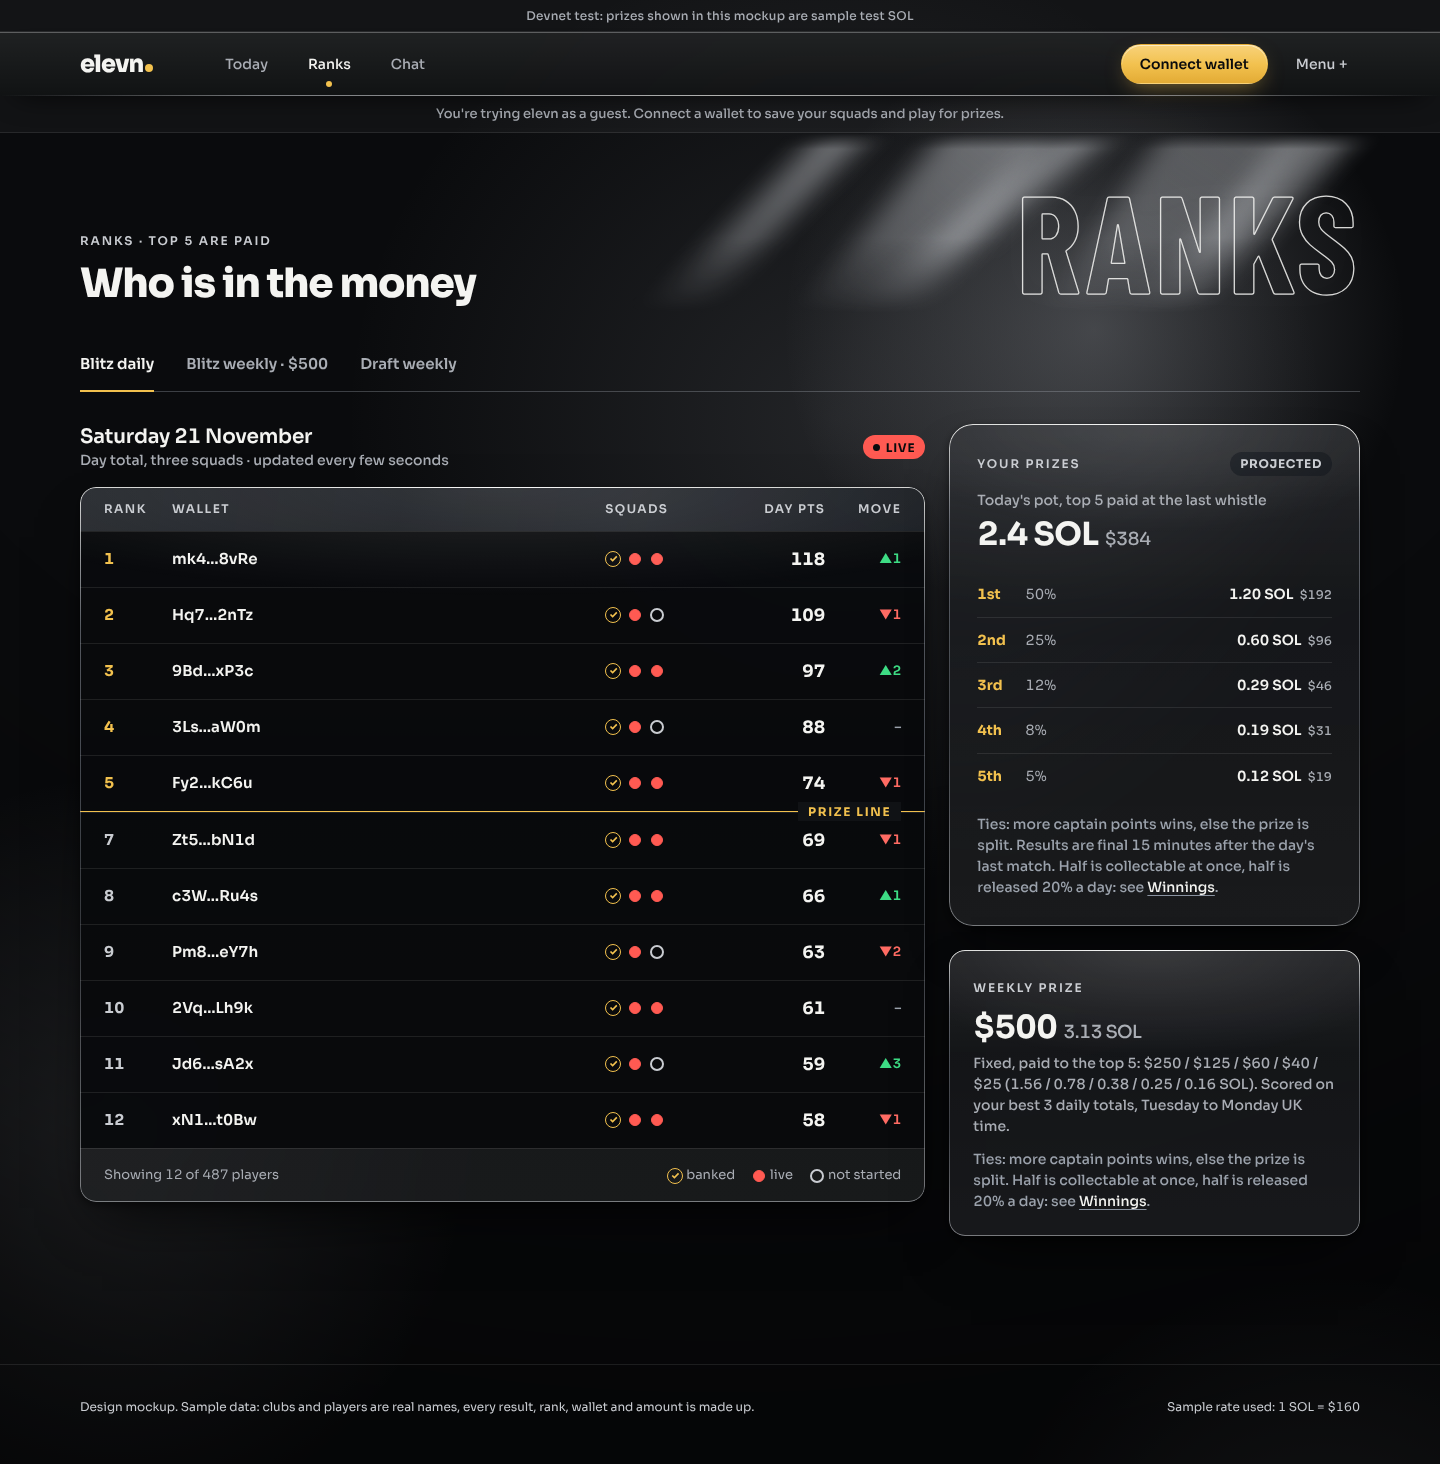
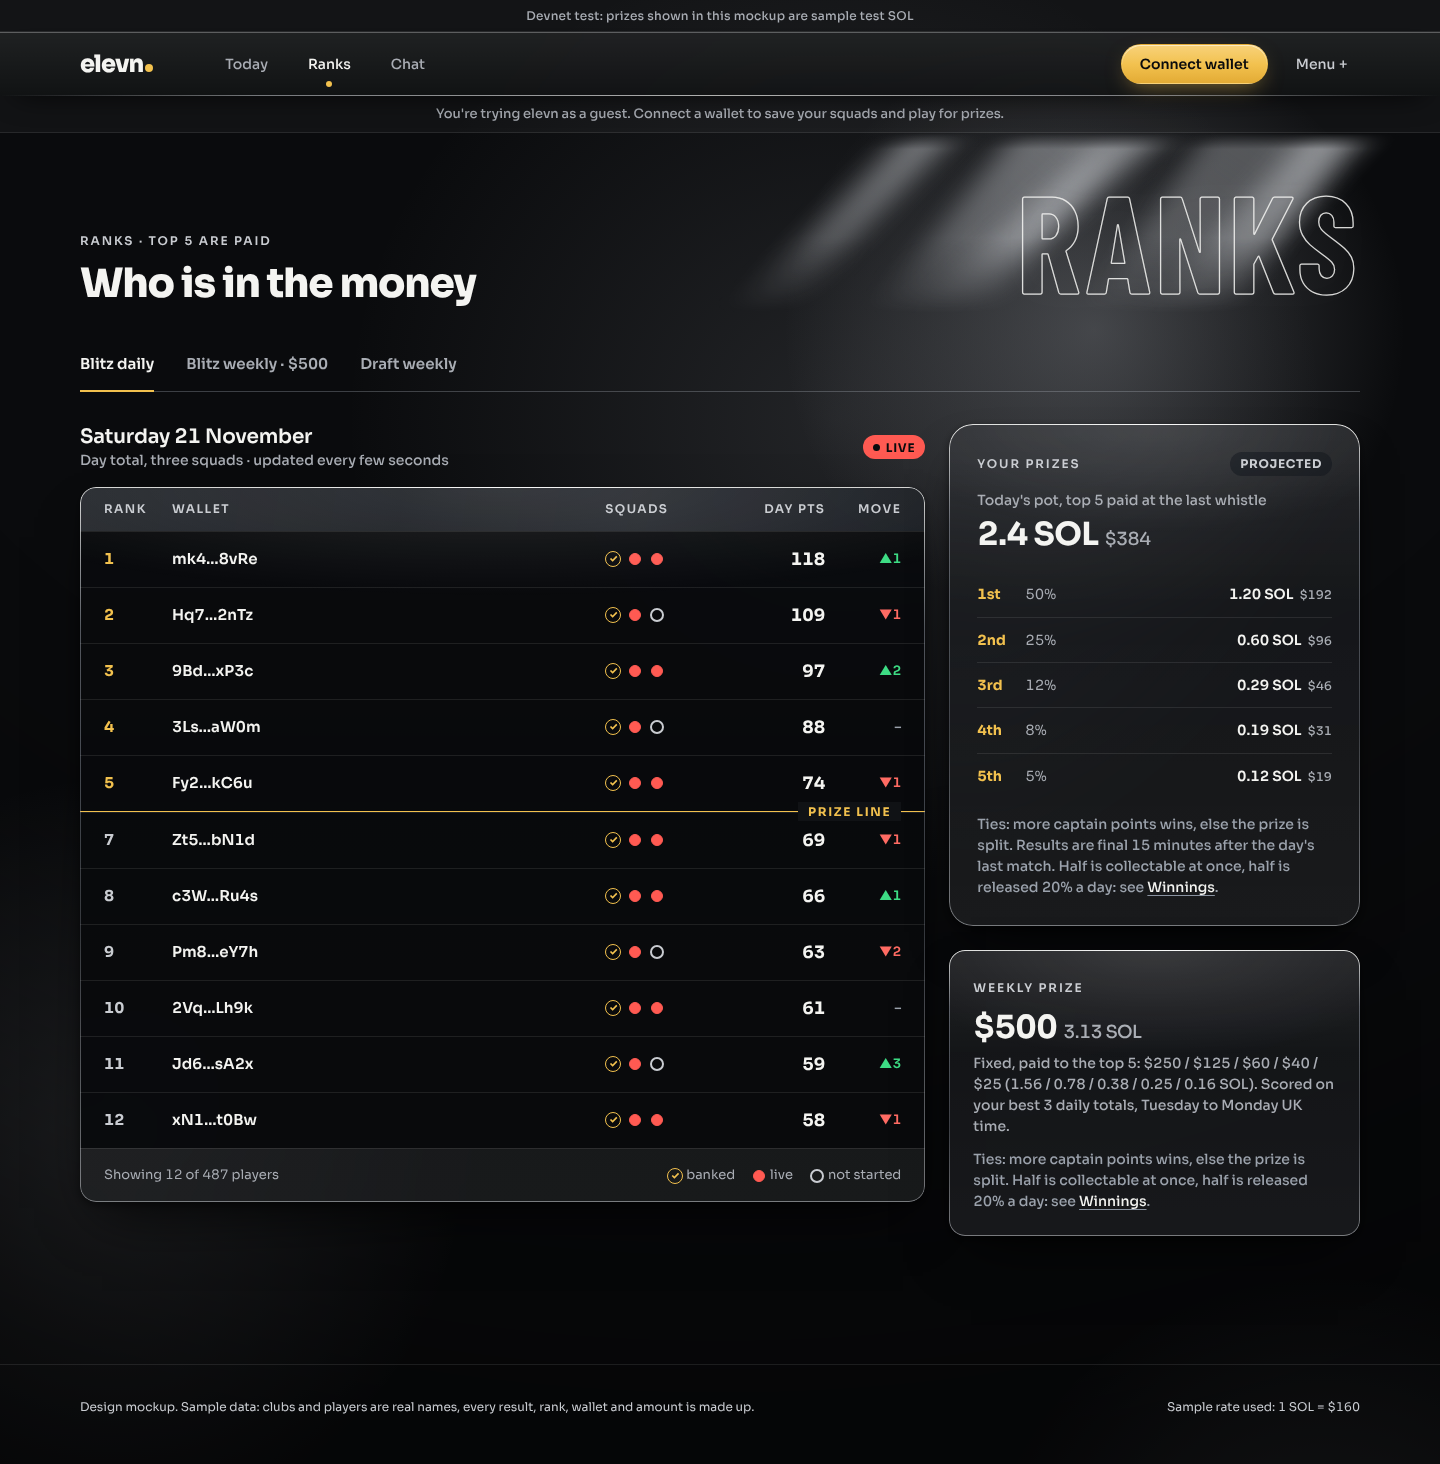
Mockups: final steel-and-green board, shared light rays in the title band, frozen state on Winnings
Claude-Session: https://claude.ai/code/session_012GbKymxq8Mwy7J7Kp4CrmR

Changed region(s): [[0.4688, 0.0922, 0.8438, 0.2152], [0.8438, 0.0922, 0.9688, 0.1844]]

diff --git a/docs/design/mockups/mock.css b/docs/design/mockups/mock.css
@@ -640,13 +640,14 @@ main:has(> .rays) { position: relative; }   /* the rays sit inside <main>, so th
   -webkit-mask: linear-gradient(180deg, transparent 0, #000 9%, #000 58%, rgba(0,0,0,.4) 86%, transparent 100%); mask: linear-gradient(180deg, transparent 0, #000 9%, #000 58%, rgba(0,0,0,.4) 86%, transparent 100%); }
 .rays i { position: absolute; top: -50px; height: 520px; transform-origin: 50% 0; filter: blur(12px);
   background: linear-gradient(180deg, rgba(240,243,248,.78), rgba(240,243,248,.34) 55%, rgba(232,235,240,0)); }
-.rays i:nth-child(1) { left: 62%; width: 38px; transform: rotate(44deg); opacity: .62; animation: ray 34s ease-in-out infinite alternate; }
-.rays i:nth-child(2) { left: 70%; width: 90px; transform: rotate(38deg); opacity: .55; animation: ray 46s ease-in-out -9s infinite alternate; }
-.rays i:nth-child(3) { left: 78%; width: 34px; transform: rotate(50deg); opacity: .68; animation: ray 38s ease-in-out -20s infinite alternate; }
-.rays i:nth-child(4) { left: 85%; width: 120px; transform: rotate(33deg); opacity: .46; animation: ray 52s ease-in-out -4s infinite alternate; }
-.rays i:nth-child(5) { left: 94%; width: 48px; transform: rotate(42deg); opacity: .58; animation: ray 41s ease-in-out -14s infinite alternate; }
+.rays i:nth-child(1) { left: 68%; width: 38px; transform: rotate(44deg); opacity: .62; animation: ray 34s ease-in-out infinite alternate; }
+.rays i:nth-child(2) { left: 75%; width: 90px; transform: rotate(38deg); opacity: .55; animation: ray 46s ease-in-out -9s infinite alternate; }
+.rays i:nth-child(3) { left: 82%; width: 34px; transform: rotate(50deg); opacity: .68; animation: ray 38s ease-in-out -20s infinite alternate; }
+.rays i:nth-child(4) { left: 88%; width: 120px; transform: rotate(33deg); opacity: .46; animation: ray 52s ease-in-out -4s infinite alternate; }
+.rays i:nth-child(5) { left: 95%; width: 48px; transform: rotate(42deg); opacity: .58; animation: ray 41s ease-in-out -14s infinite alternate; }
 @keyframes ray { from { translate: -18px 0; } to { translate: 22px 0; } }
 @media (prefers-reduced-motion: reduce) { .rays i { animation: none; } }
 
 @media (max-width: 1100px) { .wfigs { grid-template-columns: 1fr; } .fig { border-left: 0; border-top: 1px solid var(--line); padding: 24px; } .fig:first-child { border-top: 0; } .wcols { grid-template-columns: 1fr; } .wcols > div + div { border-left: 0; border-top: 1px solid var(--line); } .wcols > div { padding: 24px; } .wbar { padding: 16px 24px; } .wbar .hint { margin-left: 0; text-align: left; } .wnote { margin: 0 24px 24px; flex-wrap: wrap; } .rays i:nth-child(-n+2) { display: none; } }
 @media (max-width: 700px) { .wchip a + a { padding: 0 12px 0 10px; } .hrow { grid-template-columns: 1fr auto; row-gap: 6px; } .hrow .dt { grid-column: 1 / -1; order: 3; } .strip { flex-wrap: wrap; gap: 6px 12px; } .strip .msg { flex: 1 1 100%; } .msg { grid-template-columns: 1fr; gap: 4px; } .nav .right .btn-gold { padding: 0 14px; } .banner { text-align: left; } .composer { flex-wrap: wrap; }  }
+@media (max-width: 700px) { .rays { height: 150px; } .rays i:nth-child(2n) { display: none; } .rays i { opacity: .45 !important; } }
